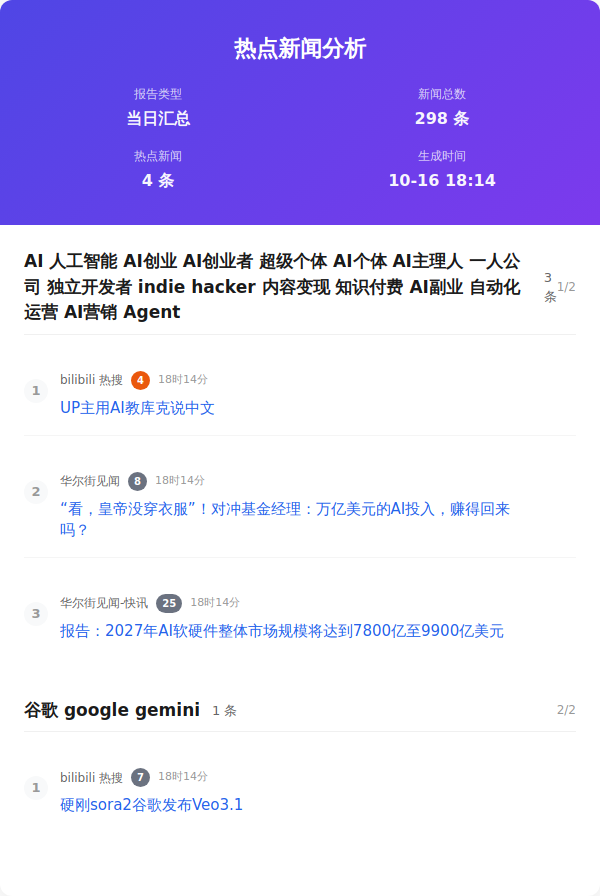
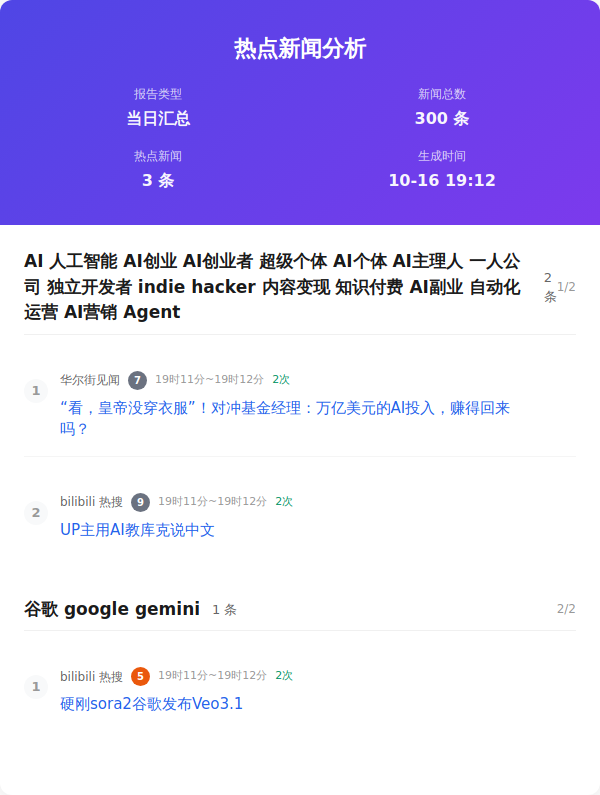
Auto update by GitHub Actions at Thu Oct 16 19:12:08 CST 2025

diff --git a/index.html b/index.html
@@ -357,15 +357,15 @@
                     </div>
                     <div class="info-item">
                         <span class="info-label">新闻总数</span>
-                        <span class="info-value">298 条</span>
+                        <span class="info-value">300 条</span>
                     </div>
                     <div class="info-item">
                         <span class="info-label">热点新闻</span>
-                        <span class="info-value">4 条</span>
+                        <span class="info-value">3 条</span>
                     </div>
                     <div class="info-item">
                         <span class="info-label">生成时间</span>
-                        <span class="info-value">10-16 18:14</span>
+                        <span class="info-value">10-16 19:12</span>
                     </div>
                 </div>
             </div>
@@ -375,7 +375,7 @@
                     <div class="word-header">
                         <div class="word-info">
                             <div class="word-name">AI 人工智能 AI创业 AI创业者 超级个体 AI个体 AI主理人 一人公司 独立开发者 indie hacker 内容变现 知识付费 AI副业 自动化运营 AI营销 Agent</div>
-                            <div class="word-count ">3 条</div>
+                            <div class="word-count ">2 条</div>
                         </div>
                         <div class="word-index">1/2</div>
                     </div>
@@ -383,9 +383,9 @@
                         <div class="news-number">1</div>
                         <div class="news-content">
                             <div class="news-header">
-                                <span class="source-name">bilibili 热搜</span><span class="rank-num high">4</span><span class="time-info">18时14分</span>
+                                <span class="source-name">华尔街见闻</span><span class="rank-num ">7</span><span class="time-info">19时11分~19时12分</span><span class="count-info">2次</span>
                             </div>
-                            <div class="news-title"><a href="https://search.bilibili.com/all?keyword=UP%E4%B8%BB%E7%94%A8AI%E6%95%99%E5%BA%93%E5%85%8B%E8%AF%B4%E4%B8%AD%E6%96%87" target="_blank" class="news-link">UP主用AI教库克说中文</a>
+                            <div class="news-title"><a href="https://wallstreetcn.com/articles/3757228" target="_blank" class="news-link">“看，皇帝没穿衣服”！对冲基金经理：万亿美元的AI投入，赚得回来吗？</a>
                             </div>
                         </div>
                     </div>
@@ -393,19 +393,9 @@
                         <div class="news-number">2</div>
                         <div class="news-content">
                             <div class="news-header">
-                                <span class="source-name">华尔街见闻</span><span class="rank-num ">8</span><span class="time-info">18时14分</span>
+                                <span class="source-name">bilibili 热搜</span><span class="rank-num ">9</span><span class="time-info">19时11分~19时12分</span><span class="count-info">2次</span>
                             </div>
-                            <div class="news-title"><a href="https://wallstreetcn.com/articles/3757228" target="_blank" class="news-link">“看，皇帝没穿衣服”！对冲基金经理：万亿美元的AI投入，赚得回来吗？</a>
-                            </div>
-                        </div>
-                    </div>
-                    <div class="news-item ">
-                        <div class="news-number">3</div>
-                        <div class="news-content">
-                            <div class="news-header">
-                                <span class="source-name">华尔街见闻-快讯</span><span class="rank-num ">25</span><span class="time-info">18时14分</span>
-                            </div>
-                            <div class="news-title"><a href="https://wallstreetcn.com/livenews/2988871" target="_blank" class="news-link">报告：2027年AI软硬件整体市场规模将达到7800亿至9900亿美元</a>
+                            <div class="news-title"><a href="https://search.bilibili.com/all?keyword=UP%E4%B8%BB%E7%94%A8AI%E6%95%99%E5%BA%93%E5%85%8B%E8%AF%B4%E4%B8%AD%E6%96%87" target="_blank" class="news-link">UP主用AI教库克说中文</a>
                             </div>
                         </div>
                     </div>
@@ -422,7 +412,7 @@
                         <div class="news-number">1</div>
                         <div class="news-content">
                             <div class="news-header">
-                                <span class="source-name">bilibili 热搜</span><span class="rank-num ">7</span><span class="time-info">18时14分</span>
+                                <span class="source-name">bilibili 热搜</span><span class="rank-num high">5</span><span class="time-info">19时11分~19时12分</span><span class="count-info">2次</span>
                             </div>
                             <div class="news-title"><a href="https://search.bilibili.com/all?keyword=%E7%A1%AC%E5%88%9Asora2%E8%B0%B7%E6%AD%8C%E5%8F%91%E5%B8%83Veo3.1" target="_blank" class="news-link">硬刚sora2谷歌发布Veo3.1</a>
                             </div>
